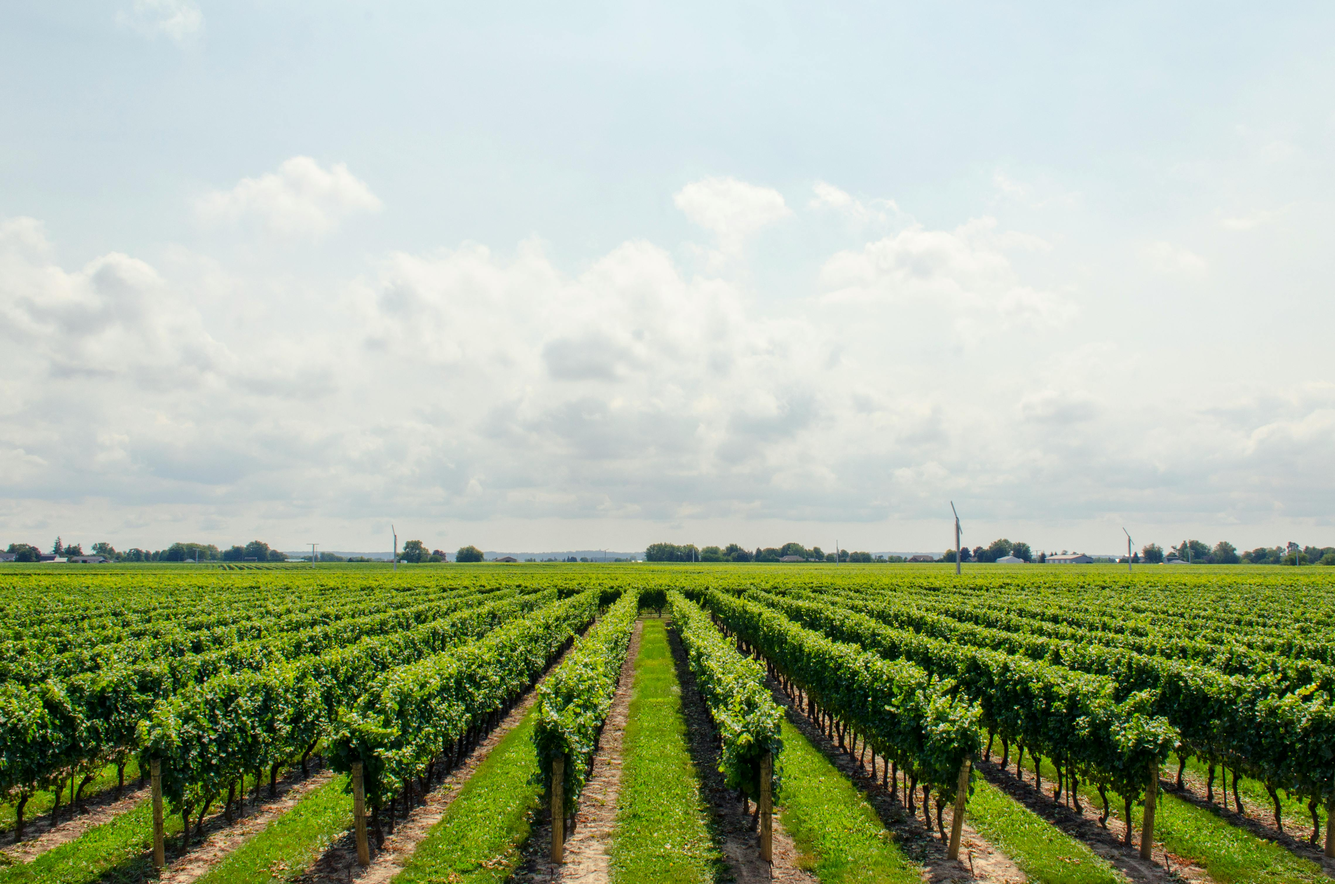
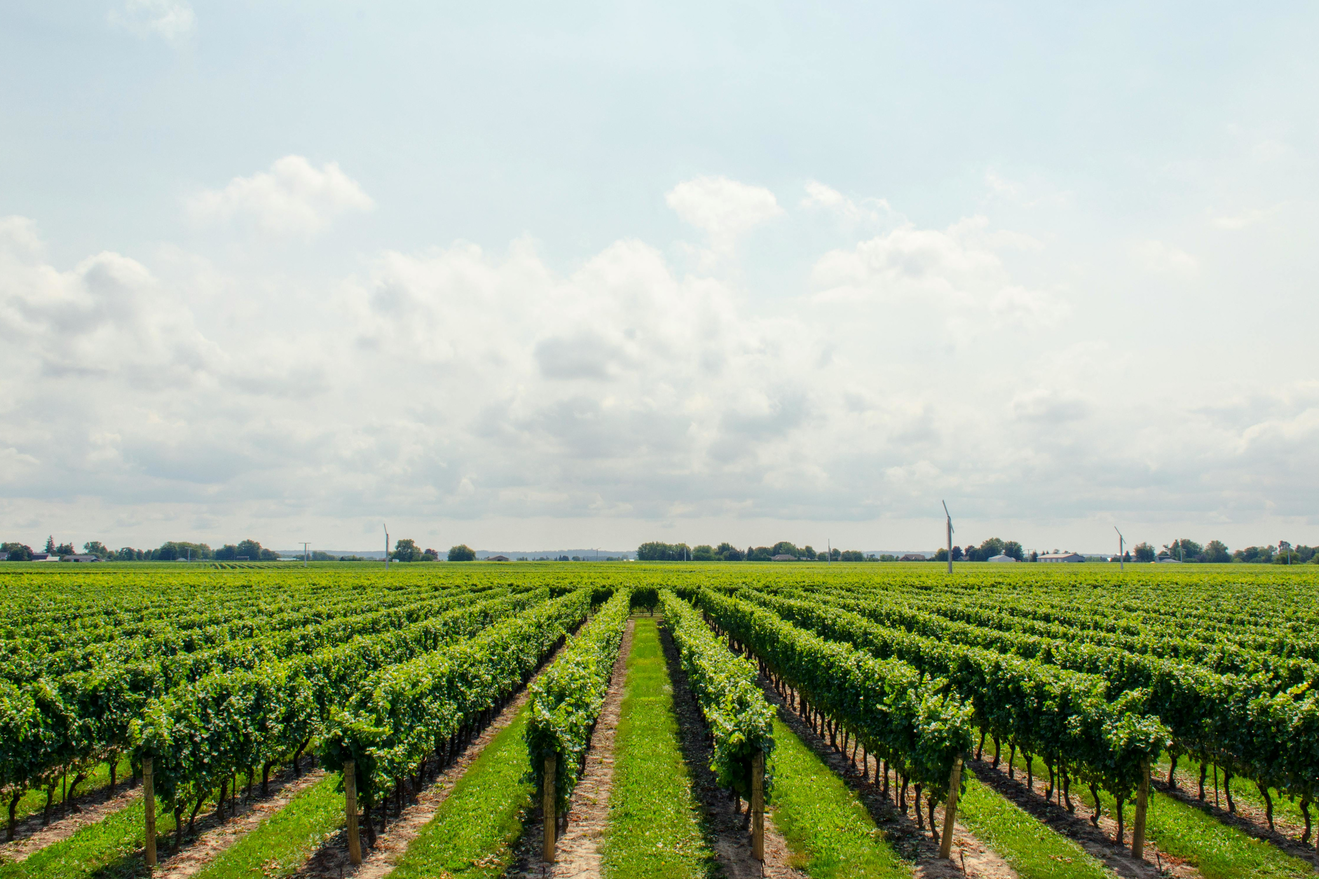
Fixed background image.

Changed region(s): [[0.0, 0.5882, 1.0, 1.0]]

diff --git a/src/main/resources/fxml/style.css b/src/main/resources/fxml/style.css
@@ -67,6 +67,13 @@
     -fx-background-color: #bbbbbb;
 }
 
+#homepage {
+    -fx-background-image: url("../images/vineyard_background.jpg");
+    -fx-background-repeat: no-repeat;
+    -fx-background-size: auto;
+    -fx-background-position: center center;
+}
+
 .table-view {
     -fx-background-color: transparent;
 }

diff --git a/src/main/java/seng202/team5/gui/MainLayoutController.java b/src/main/java/seng202/team5/gui/MainLayoutController.java
@@ -4,6 +4,7 @@ import javafx.fxml.FXML;
 import javafx.fxml.FXMLLoader;
 import javafx.scene.Node;
 import javafx.scene.control.Button;
+import javafx.scene.layout.AnchorPane;
 import javafx.scene.layout.StackPane;
 import javafx.stage.Stage;
 
@@ -95,7 +96,7 @@ public class MainLayoutController {
     /**
      * Load a page with a path given as an argument
      *
-     * @param String path to fxml file
+     * @param fxml path to fxml file
      * @throws Exception
      */
     private void loadPage(String fxml) throws Exception {
